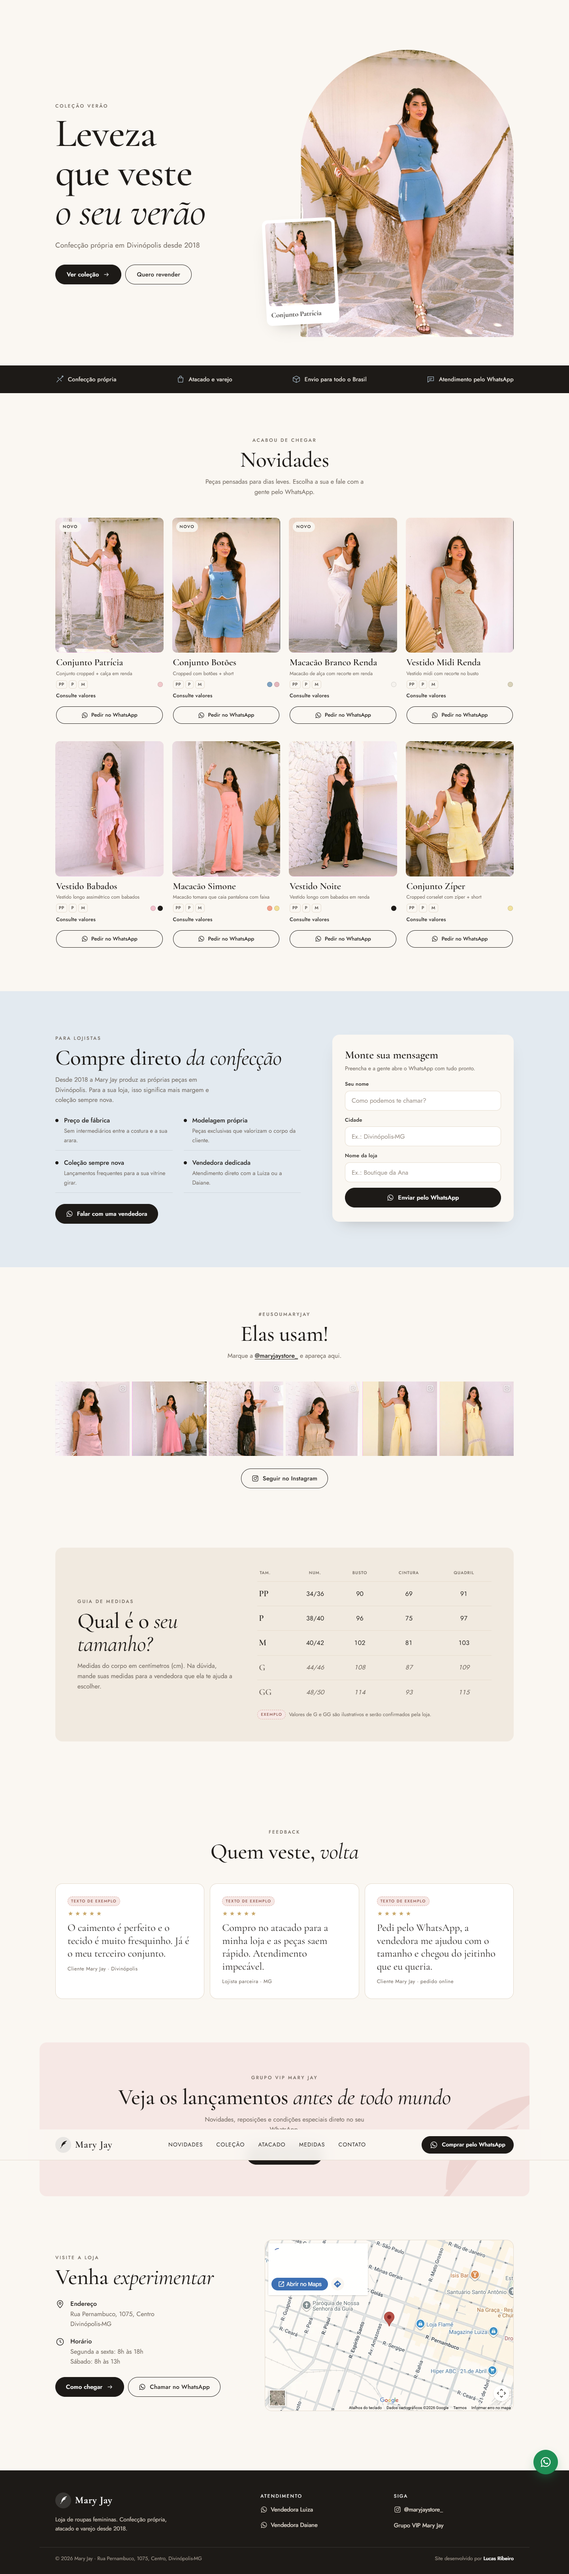
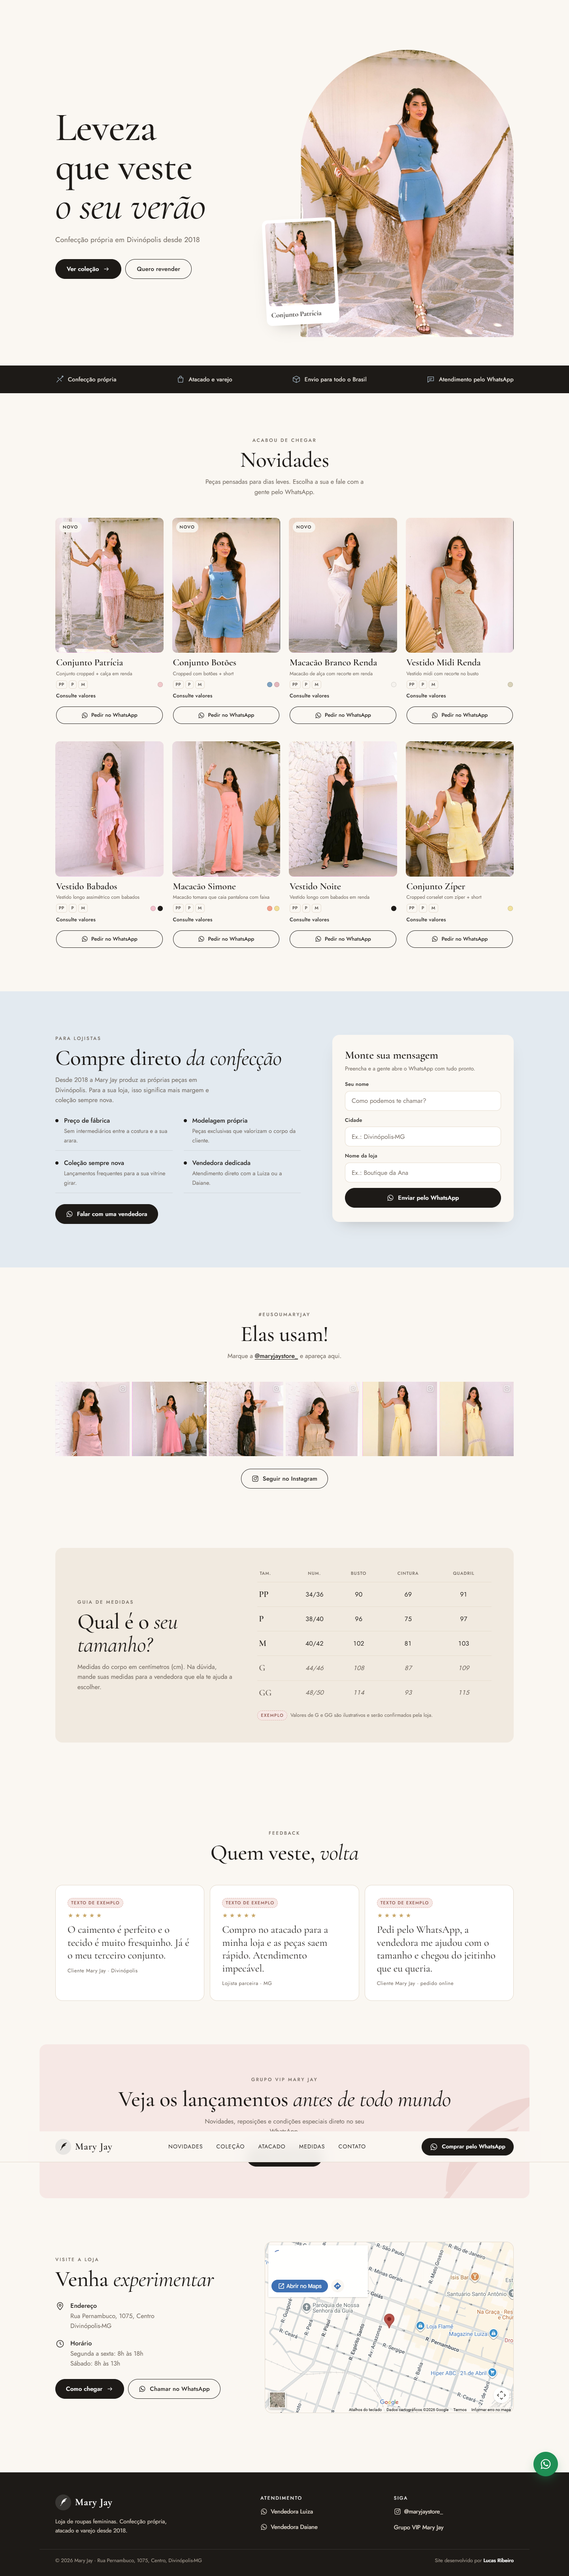
Ajustes de legibilidade e hero mais limpo
Selos e rótulos pequenos sobem para 11px, placeholders com mais contraste,
remove o sobretítulo do hero e atualiza os prints.

diff --git a/style.css b/style.css
@@ -221,7 +221,7 @@ button { cursor: pointer; }
 .card__tag {
   position: absolute; top: 10px; left: 10px;
   background: rgba(250,247,242,.92); color: var(--tinta);
-  font-size: 10.5px; font-weight: 500; letter-spacing: .14em; text-transform: uppercase;
+  font-size: 11px; font-weight: 500; letter-spacing: .12em; text-transform: uppercase;
   padding: 5px 9px; border-radius: 999px;
 }
 .card__corpo { padding: 12px 2px 0; display: flex; flex-direction: column; gap: 6px; flex: 1; }
@@ -274,7 +274,7 @@ button { cursor: pointer; }
   border: 1px solid var(--areia-2); background: #fff;
   font-size: 16px; transition: border-color .2s;
 }
-.campo input::placeholder { color: #9C9289; }
+.campo input::placeholder { color: #7A7067; }
 .campo input:focus { outline: none; border-color: var(--tinta); }
 .campo input[aria-invalid="true"] { border-color: #B4544B; }
 .form__aviso { margin: 0; font-size: 13.5px; color: #9C3F37; }
@@ -296,7 +296,7 @@ button { cursor: pointer; }
 .medidas .secao__topo { margin-bottom: 0; }
 .tabela-wrap { overflow-x: auto; -webkit-overflow-scrolling: touch; }
 .tabela { width: 100%; border-collapse: collapse; font-size: 15px; white-space: nowrap; font-variant-numeric: tabular-nums; }
-.tabela th { font-size: 10.5px; font-weight: 500; letter-spacing: .1em; text-transform: uppercase; color: var(--suave); text-align: center; padding: 0 6px 12px; }
+.tabela th { font-size: 11px; font-weight: 500; letter-spacing: .1em; text-transform: uppercase; color: var(--suave); text-align: center; padding: 0 6px 12px; }
 .tabela td { text-align: center; padding: 13px 4px; border-top: 1px solid var(--areia-2); color: var(--tinta); }
 .tabela td:first-child, .tabela th:first-child { text-align: left; }
 .tabela td:first-child { font-family: var(--serif); font-size: 22px; font-weight: 600; }
@@ -304,7 +304,7 @@ button { cursor: pointer; }
 .tabela tr.is-exemplo td:first-child { font-style: normal; }
 .tabela__nota { margin: 14px 0 0; font-size: 13px; color: var(--suave); display: flex; gap: 8px; align-items: center; flex-wrap: wrap; }
 .selo-exemplo {
-  display: inline-block; font-size: 10px; font-weight: 500; letter-spacing: .14em; text-transform: uppercase;
+  display: inline-block; font-size: 11px; font-weight: 500; letter-spacing: .12em; text-transform: uppercase;
   background: var(--rosa-claro); color: #8A4E46; border: 1px dashed #D8A8A0;
   padding: 3px 8px; border-radius: 999px; font-style: normal;
 }

diff --git a/index.html b/index.html
@@ -84,7 +84,6 @@
         <img src="assets/img/hero.jpg" alt="Modelo usando conjunto azul de cropped com botões e short, com uma rede de palha ao fundo" width="1490" height="2030" fetchpriority="high">
       </div>
       <div class="hero__texto">
-        <p class="eyebrow eyebrow--hero">Coleção Verão</p>
         <h1 id="hero-titulo" class="hero__titulo">Leveza que veste <em>o seu verão</em></h1>
         <p class="hero__sub">Confecção própria em Divinópolis desde 2018</p>
         <div class="hero__botoes">
